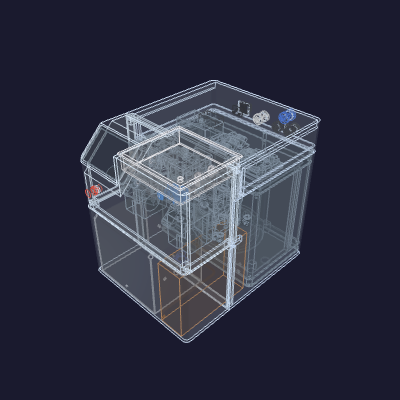
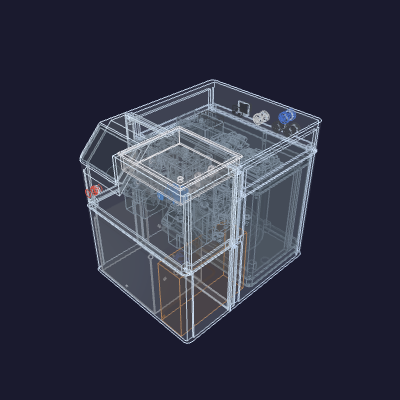
enclosure: stand every boss on its bed face, and pin the back seam at both ends
Two defects, both of them mine from the Z-down flip.

The bosses were islands. The docstring claimed each pod "reaches out to the
floor or ceiling it sits against" — true only of the top pair, which happened to
touch the ceiling. The lower Y-seam pair was a 16 mm collar floating over 156 mm
of open cavity, and the Z-seam sockets were the same mid-height islands. I had
even measured those undersides hanging at z=155.7 and filed them as "residual
cost" instead of the missing support they were.

And a Z seam pinned at one end hinges at the other. The back column runs from
the Y seam clear to the rear wall, but carried cross-pins only 21 mm behind the
mouth — its whole rear, the rear-wall corner included, was unfastened.

- _front_pod / _z_pod: each socket is now a full-depth COLLAR around its bore
  plus a one-wall SPINE spanning its piece's height — floor to the seam below,
  seam to the ceiling above, meeting at the seam so the corner reads
  floor-to-ceiling assembled. One wall, not the collar's depth, is what clears
  the contents everywhere: at the left Y-seam corner the bag circuit and its tee
  crowd the wall to 4.0 mm for an 80 mm band, where a full-depth post drives
  straight through them (1650 mm³) and a spine passes with room.
- _z_stations: the back column takes a second station in the rear-wall corner.
  The front column keeps its single front-wall station — source-select fills
  y 89..182 across the whole height its seam crosses, leaving no rear station to
[…]

diff --git a/hardware/printed-parts/enclosure/enclosure/enclosure.py b/hardware/printed-parts/enclosure/enclosure/enclosure.py
@@ -38,8 +38,12 @@ it: the box's four standing verticals. Each quadrant owns only two of them —
 its other two "corners" are the Y-seam, a telescoping mating face with no
 exterior arris to relieve — so the front pieces round the front-left/right
 verticals, the back pieces the back-left/right, and every seam stays square.
-The bosses follow the same axis: each level's pod reaches out to the floor or
-ceiling it sits against, which is the bed face its piece lies on.
+The bosses follow the same axis. Each socket is a full-depth collar around its
+bore plus a one-wall spine carrying it the whole height of its piece — floor to
+the seam below it, seam to the ceiling above — so it grows off the first layer
+instead of hanging in open air, and the two pieces' spines meet at the seam. And
+each Z seam is pinned at BOTH ends of its column, so the far end cannot hinge
+open.
 
 main() exports the four printable pieces (enclosure-front-bottom.step,
 enclosure-front-top.step, enclosure-back-bottom.step, enclosure-back-top.step)
@@ -67,6 +71,15 @@ import hopper_funnel as _funnel
 # Shell parameters.
 wall = 3.0                  # PETG wall thickness
 interior_clearance = 0.0    # gap between contents bbox and inner wall
+# Lateral room reserved at BOTH ±X walls for a boss spine to run the full height.
+# Every cross-pin boss is carried to its bed face by a one-wall spine against the
+# side wall; where a content touches that wall the spine has nowhere to go. The
+# cold core is exactly that case — it spans the interior wall-to-wall and floor
+# to its foam cap, with no margin at any height, and being the widest content it
+# is what sets the box width in the first place. Nothing can be nudged out of the
+# way (its placement rule pins it to the back wall), so the rear station's spine
+# is bought with width: one wall at each side, and only that.
+boss_spine_clear = 3.0      # = wall; lateral room for a spine past wall-hugging contents
 corner_round = 12.          # standing-vertical (Z) print-corner relief radius (anti-warp on the bed)
 
 # H2C left-nozzle build envelope; each printed HALF must fit inside this.
@@ -156,7 +169,11 @@ lip_len = plug_dia / 2.0 + socket_r              # = (plug+bore)/2 + wall = 13.1
 #     occupy the gap beneath that floor.
 # Every printed piece's bed face fits the H2C envelope with these cuts.
 z_joint_front = 172.0
-z_joint_back = 266.0
+# Clear of the cold core's foam cap by the rear station's reach: that station's
+# socket collar hangs socket_r below the pin axis, i.e. to z_joint_back − 3.2, so
+# the seam sits high enough that the collar lands ON the band above the foam
+# rather than in it.
+z_joint_back = 267.0
 # The Z lip stops this short of the Y-seam overlap on each side, so the two
 # telescopes never share a wall surface.
 z_lip_y_margin = 2.0
@@ -215,6 +232,8 @@ def _round_corner_z(solid, xc, yc, r):
     wp = cq.Workplane(obj=solid)
     edges = [e for e in wp.edges("|Z").vals()
              if abs(e.Center().x - xc) < 1e-6 and abs(e.Center().y - yc) < 1e-6]
+    if not edges:
+        return solid          # this boss does not sit in that corner
     return wp.newObject(edges).fillet(r).val()
 
 
@@ -226,7 +245,8 @@ def _dims():
     cxmin = min(b.xmin for b in bbs); cxmax = max(b.xmax for b in bbs)
     cymin = min(b.ymin for b in bbs); cymax = max(b.ymax for b in bbs)
     czmin = min(b.zmin for b in bbs); czmax = max(b.zmax for b in bbs)
-    ix0, ix1 = cxmin - interior_clearance, cxmax + interior_clearance
+    ix0, ix1 = (cxmin - interior_clearance - boss_spine_clear,
+                cxmax + interior_clearance + boss_spine_clear)
     iy0, iy1 = cymin - interior_clearance, cymax + interior_clearance
     # The floor is a fixed Z=0 datum, not the lowest content — so parts can stand
     # on feet above it (the floor, seam lip, and braces stay put). The ceiling
@@ -469,13 +489,18 @@ def _bosses(inner, split=None, brace_y_short=None):
     ix0, ix1, iy0, iy1, iz0, iz1 = inner
     r = socket_bore_dia / 2.0
     zt = iz1 - wall - r
-    top = ((zt - socket_r, iz1), (zt - plug_dia / 2.0, iz1), None)
     if split is None:
         zb = iz0 + wall + r
+        top = ((zt - socket_r, iz1), (zt - plug_dia / 2.0, iz1), None)
         bot = ((iz0, zb + socket_r), (iz0, zb + plug_dia / 2.0), None)
     else:
         zb = split - wall - r
-        bot = ((zb - socket_r, split), (zb - plug_dia / 2.0, split), brace_y_short)
+        # Each pod is a POST, not a collar: it spans its piece's whole height —
+        # floor to the seam below it, seam to ceiling above — so the boss is fed
+        # from the bed face its piece lies on instead of hanging off the wall.
+        # The two meet at the seam, so the corner reads floor-to-ceiling assembled.
+        top = ((split, iz1), (zt - plug_dia / 2.0, iz1), None)
+        bot = ((iz0, split), (zb - plug_dia / 2.0, split), brace_y_short)
     out = []
     for z_boss, (pod_z, brace_z, by1) in ((zb, bot), (zt, top)):
         out.append((ix0, ix0 - wall, +1.0, z_boss, pod_z, brace_z, by1))
@@ -508,21 +533,34 @@ def _back_plug(x_ext, sx, z_boss, y_boss, y_joint):
     return cyl.fuse(tab)
 
 
-def _front_pod(x_in, x_ext, sx, pod_z, y_joint, inner):
-    """FRONT socket pod (solid): a rib bounded by the faces it mates — in X the
-    side wall to the cap, in Z the pod's span (out to the floor/ceiling when it
-    lives in a box corner), in Y just the socket it is: one socket_r ahead of
-    the bore axis, back to the rim the plug's tab slides to. It carries no
-    filler ahead of that — printed Z-down the pod is fed from the floor/ceiling
-    the piece lies on, not from the front wall, so reaching the front wall would
-    buy nothing and hang a 130 mm ledge over the cavity. Bore / heat-set /
+def _front_pod(x_in, x_ext, sx, pod_z, z_boss, y_joint, inner):
+    """FRONT socket boss: a full-depth COLLAR around the bore plus the one-wall
+    SPINE that carries it to the bed face.
+
+    In X the collar runs the side wall to the cap, in Y just the socket it is —
+    one socket_r ahead of the bore axis, back to the rim the plug's tab slides
+    to. The spine keeps that Y footprint but only one wall of depth, and spans
+    the piece's whole height (`pod_z`): floor to the seam below it, seam to the
+    ceiling above. Printed Z-down that is the face the piece lies on, so the
+    boss is fed off the first layer instead of hanging in open air, and the two
+    pieces' spines meet at the seam so the corner reads floor-to-ceiling.
+
+    The spine is one wall, not the collar's full depth, because that is what
+    fits everywhere: at the left Y-seam corner the bag circuit and its tee crowd
+    the wall to ~4 mm for an 80 mm band, and a full-depth post there would drive
+    straight through them. One wall clears it with no part moved and no box
+    grown, and matches the brace/rib idiom used elsewhere. Bore / heat-set /
     channel are cut afterwards."""
     ix0, ix1, iy0, iy1, iz0, iz1 = inner
     _xs, _xt, _xh, x_cap = _boss_x(x_ext, sx)
     xa, xb = sorted((x_in, x_cap))
     za, zb = pod_z
     ya = max(iy0, _y_boss(y_joint) - socket_r)
-    return _ybox(xa, xb, ya, y_joint + lip_len, za, zb)
+    yb = y_joint + lip_len
+    collar = _ybox(xa, xb, ya, yb, z_boss - socket_r, z_boss + socket_r)
+    sa, sb = sorted((x_in, x_in + sx * wall))
+    spine = _ybox(sa, sb, ya, yb, za, zb)
+    return collar.fuse(spine)
 
 
 def _back_brace(x_in, x_ext, sx, brace_z, brace_y1, y_joint, outer):
@@ -606,20 +644,28 @@ def _z_pin_z(zj):
 
 
 def _z_stations(inner, y_joint):
-    """X-axis pin stations along the Z seams, one per ±X wall per Y column:
-    front pins in the front-wall corners (their pods grow from the front
-    wall), back pins just behind the Y-seam mouth (their pods and braces
-    start where the telescoped front lip stops). Each column's stations ride
-    that column's own seam height."""
+    """X-axis pin stations along the Z seams — TWO per ±X wall per Y column, one
+    at each END of that column's seam, so a seam pinned only at one end cannot
+    hinge open at the other. The back column is the reason: it runs from the
+    Y-seam clear to the rear wall, and a single station behind the mouth left
+    its whole rear unfastened.
+
+    Back column: just behind the Y-seam mouth (where the telescoped front lip
+    stops) AND the rear-wall corner. The front column keeps its single
+    front-wall station — the source-select assembly fills y 89..182 across the
+    whole height its seam crosses, so there is no rear station to be had there
+    without moving that assembly. Each column's stations ride that column's own
+    seam height."""
     ix0, ix1, iy0, iy1, iz0, iz1 = inner
-    yf = iy0 + wall + socket_bore_dia / 2.0
-    yb = y_joint + lip_len + wall + socket_bore_dia / 2.0
-    return [
-        (ix0, ix0 - wall, +1.0, yf, "front"),
-        (ix1, ix1 + wall, -1.0, yf, "front"),
-        (ix0, ix0 - wall, +1.0, yb, "back"),
-        (ix1, ix1 + wall, -1.0, yb, "back"),
-    ]
+    r = socket_bore_dia / 2.0
+    yf = iy0 + wall + r                             # front column, front wall
+    yb = y_joint + lip_len + wall + r               # back column, behind the mouth
+    ybr = iy1 - wall - r                            # back column, rear wall
+    out = []
+    for ys, col in ((yf, "front"), (yb, "back"), (ybr, "back")):
+        out.append((ix0, ix0 - wall, +1.0, ys, col))
+        out.append((ix1, ix1 + wall, -1.0, ys, col))
+    return out
 
 
 def _z_lip(inner, y_joint, zj):
@@ -647,29 +693,42 @@ def _z_lip(inner, y_joint, zj):
 
 
 def _z_pod(x_in, x_ext, sx, ys, col, y_joint, inner, zj):
-    """BOTTOM socket pod: the Y-pod rotated — a rib on the ±X wall reaching
-    +Z to the lip rim, sized in Y to the socket it carries. The front-column
-    pod runs from the front wall to one socket_r past its bore; the
+    """BOTTOM socket pod: the Y-pod rotated — a POST on the ±X wall carrying the
+    socket up to the lip rim, sized in Y to the socket it carries. The
+    front-column pod runs from the front wall to one socket_r past its bore; the
     back-column pod starts where the lip does, behind the Y-seam overlap.
-    Printed Z-down it hangs off the side wall near the seam — its underside is
-    the residual support this joint costs, the price of a transverse cross-pin
-    on a horizontal seam."""
+
+    It stands on the floor, not on the wall: the bottom pieces print floor-down,
+    so a pod that started at the socket would hang the whole height of the piece
+    in open air. Running it to iz0 feeds it off the first layer instead."""
     ix0, ix1, iy0, iy1, iz0, iz1 = inner
     _xs, _xt, _xh, x_cap = _boss_x(x_ext, sx)
     xa, xb = sorted((x_in, x_cap))
-    za = _z_pin_z(zj) - socket_r
     zb = zj + lip_len
+    # Y extent is LOCAL to this station — a column carries a station at each end,
+    # so spanning from the column's end would make one slab of the whole depth.
+    # The bound only clamps: the front-wall station still reaches the front wall,
+    # the behind-the-mouth station still starts where the lip does.
     if col == "front":
-        ya, yb = iy0, ys + socket_r
+        ya, yb = max(iy0, ys - socket_r), ys + socket_r
     else:
-        ya, yb = y_joint + lip_len + z_lip_y_margin, ys + socket_r
-    pod = _ybox(xa, xb, ya, yb, za, zb)
-    if col == "front":
-        # The front stations sit in the box's rounded front verticals; relieve
-        # the pod's corner there concentric with the cavity (one wall in) so its
-        # +Z reach telescopes into the top piece instead of biting its wall.
-        pod = _round_corner_z(pod, x_in, iy0, corner_round - wall)
-    return pod
+        ya, yb = max(y_joint + lip_len + z_lip_y_margin, ys - socket_r), min(iy1, ys + socket_r)
+    # Full-depth collar around the socket; one-wall spine carrying it to the
+    # floor. The spine stops where the collar starts, so it stays wholly below
+    # the seam — only the collar crosses into the top piece, and only the collar
+    # needs the corner relief.
+    collar_lo = _z_pin_z(zj) - socket_r
+    collar = _ybox(xa, xb, ya, yb, collar_lo, zb)
+    # A station that abuts a wall sits in one of the box's rounded verticals;
+    # relieve the collar's corner there concentric with the cavity (one wall in)
+    # so its +Z reach telescopes into the top piece instead of biting its wall.
+    # The front-wall station lands on iy0, the rear-wall station on iy1.
+    if abs(ya - iy0) < 1e-6:
+        collar = _round_corner_z(collar, x_in, iy0, corner_round - wall)
+    if abs(yb - iy1) < 1e-6:
+        collar = _round_corner_z(collar, x_in, iy1, corner_round - wall)
+    sa, sb = sorted((x_in, x_in + sx * wall))
+    return collar.fuse(_ybox(sa, sb, ya, yb, iz0, collar_lo))
 
 
 def _z_pin(x_ext, sx, ys, zj):
@@ -688,18 +747,18 @@ def _z_pin(x_ext, sx, ys, zj):
 
 def _z_brace(x_in, x_ext, sx, ys, col, inner, outer, zj):
     """TOP brace: a rib on the ±X wall over each pin, from the lip rim up to
-    the ceiling. The front-column brace grows from the front wall; the back
-    column's stands alone behind the mouth. Printed ceiling-down the brace runs
-    from the bed to the seam at constant section, so it carries the pin under
-    it with no overhang of its own."""
+    the ceiling. Its Y extent is local to its own station (a column carries one
+    at each end); the front-wall station still reaches the front wall. Printed
+    ceiling-down the brace runs from the bed to the seam at constant section, so
+    it carries the pin under it with no overhang of its own."""
     ix0, ix1, iy0, iy1, iz0, iz1 = inner
     ox0, ox1, oy0, oy1, oz0, oz1 = outer
     _xs, x_tip, _xh, _xc = _boss_x(x_ext, sx)
     xa, xb = sorted((x_in, x_tip))
     if col == "front":
-        ya, yb = iy0, ys + plug_dia / 2.0
+        ya, yb = max(iy0, ys - plug_dia / 2.0), ys + plug_dia / 2.0
     else:
-        ya, yb = ys - plug_dia / 2.0, ys + plug_dia / 2.0
+        ya, yb = ys - plug_dia / 2.0, min(iy1, ys + plug_dia / 2.0)
     return _ybox(xa, xb, ya, yb, zj + lip_len, oz1)
 
 
@@ -741,8 +800,8 @@ def build_front_half(dims=None, split=None, hopper=True):
     front = front.fuse(_front_lip(inner, y_joint))
     yb = _y_boss(y_joint)
     bosses = _bosses(inner, split=split)
-    for x_in, x_ext, sx, _zb, pod_z, _bz, _by1 in bosses:
-        front = front.fuse(_front_pod(x_in, x_ext, sx, pod_z, y_joint, inner))
+    for x_in, x_ext, sx, z_boss, pod_z, _bz, _by1 in bosses:
+        front = front.fuse(_front_pod(x_in, x_ext, sx, pod_z, z_boss, y_joint, inner))
     # The full-depth pods can poke into the display facet; trim them to its plane.
     front = front.cut(_facet_wedge(outer))
     # Close the facet recess at its +X edge (the −X edge is sealed by the left wall).

diff --git a/hardware/printed-parts/enclosure/enclosure/README.md b/hardware/printed-parts/enclosure/enclosure/README.md
@@ -33,8 +33,15 @@ driven from the ±X exterior. Bottom↔top, per column: the same joint rotated
 `z_joint_back` (the one back-wall band left open between the cold core's
 foam-cap top and the rear bulkhead field) — the bottom pieces carry a 3-sided
 lip + socket pods, the top pieces carry the D-pins and the braces that back
-them, four more X-axis screws crossing each seam. The front pair joins, the
+them, more X-axis screws crossing each seam. The front pair joins, the
 back pair joins, then the front assembly telescopes into the back as one.
+
+A Z seam is pinned at **both ends of its column**, not just one, or the far end
+hinges open. The back column runs from the Y seam clear to the rear wall, so it
+takes a station just behind the Y-seam mouth *and* one in the rear-wall corner.
+The front column keeps a single front-wall station: the source-select assembly
+fills the depth its seam crosses, leaving no rear station to be had there
+without moving that assembly.
 Each cross-pin mates the walls of its overlap (the
 pin's mouth-side face on the receiving mouth, the socket pod's rim-side face
 on the lip rim) and the two are coaxial by construction, so the **overlap
@@ -61,6 +68,23 @@ braces — ribs from the lip rim toward the rear wall (the lower pair stopping
 ahead of the cold core), sized to the pin they back and butting its flat tab
 at the rim — anchoring the walls against peeling and supporting the X-axis
 pins; the top pieces carry the matching braces above their Z-seam pins.
+
+**Every boss stands on the bed, not on the wall.** Each socket is a full-depth
+**collar** around its bore plus a one-wall **spine** that carries it the whole
+height of its piece — floor to the seam below, seam to the ceiling above. Printed
+Z-down that is the face the piece lies on, so the boss grows off the first layer
+instead of hanging in open air, and the two pieces' spines meet at the seam so
+the corner reads floor-to-ceiling assembled. The spine is one wall rather than
+the collar's full depth because that is what clears the contents everywhere: at
+the left Y-seam corner the bag circuit and its tee crowd the wall to ~4 mm for an
+80 mm band, and a full-depth post there would drive straight through them.
+
+The one place that could not be had for free is the rear station's spine. The
+cold core spans the interior wall-to-wall and floor to its foam cap with no
+margin at any height, and being the widest content it is what sets the box width;
+its placement rule pins it to the back wall, so nothing could be nudged aside.
+That spine is bought with `boss_spine_clear` — one wall of lateral room at each
+±X wall, and only that.
 
 The cold core rides in the back-bottom piece, verified clear of every boss at
 build time. Each printed piece fits the H2C left-nozzle build envelope
